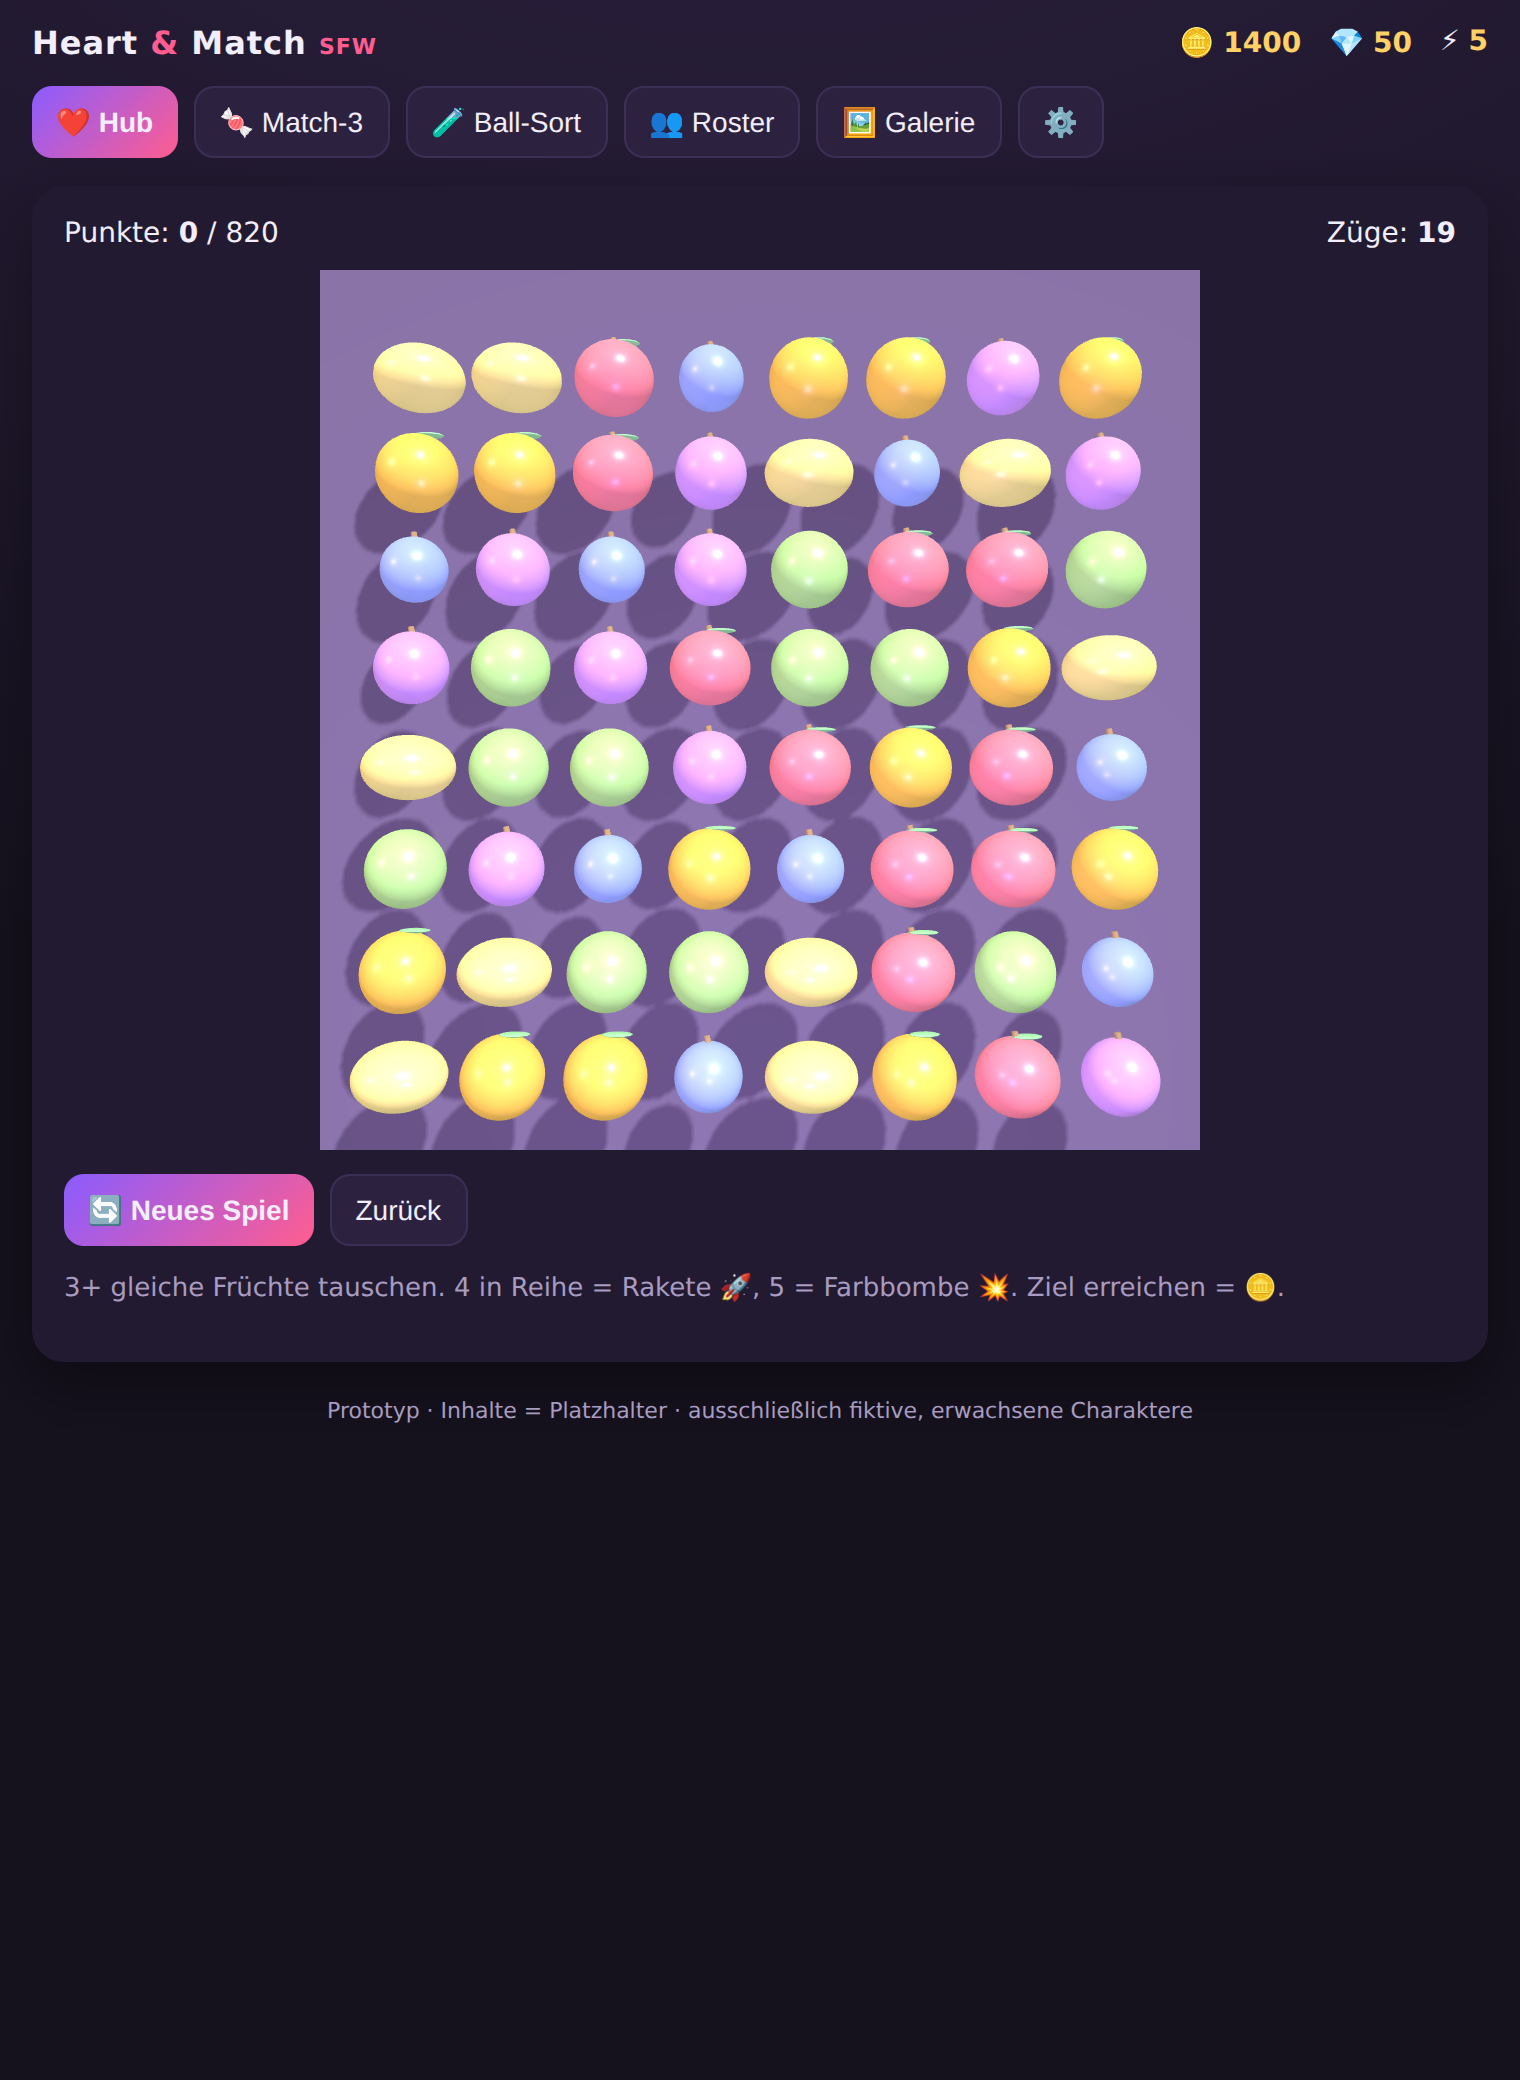
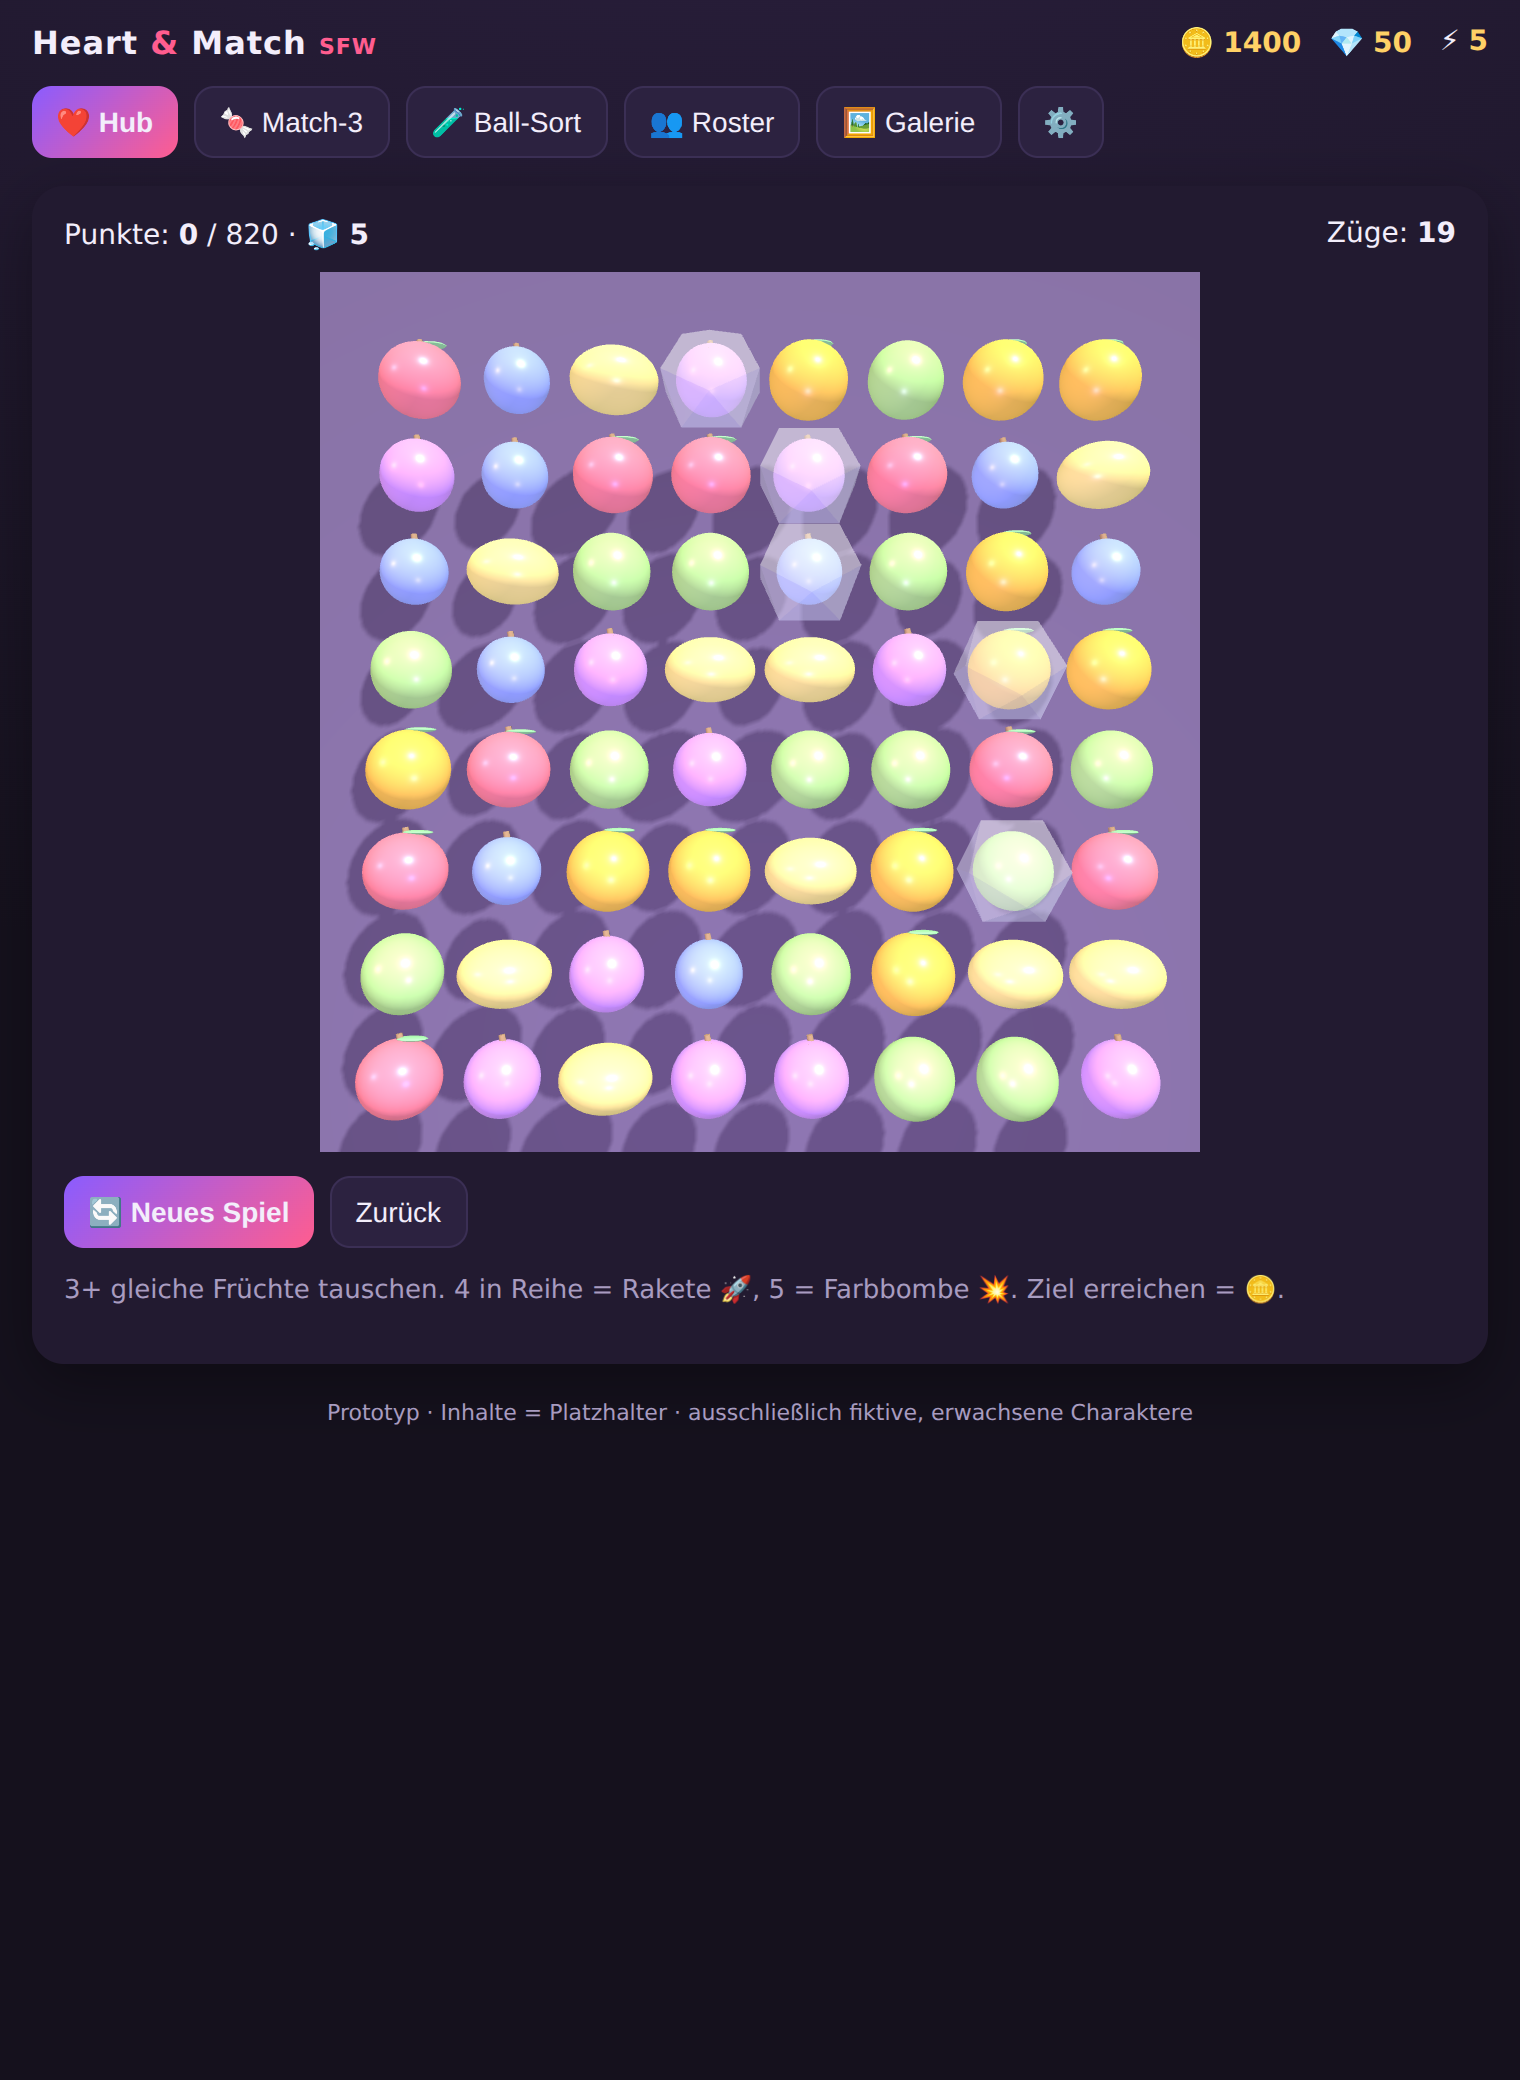
Phase 2 P0/P1: juice layer + first blocker (multi-layer ice) in 3D Match-3
Aus der Recherche umgesetzt:
- Juice: Partikel-Burst beim Aufloesen, Screenshake skaliert mit Combo/Spezial,
  Hit-Stop beim Spezialstein-Zuenden, Combo-Tonleiter (steigende Pitch)
- Hindernis 'Eis' (mehrschichtig): vereiste Fruechte nicht matchbar/bewegbar,
  tauen Schicht fuer Schicht durch benachbarte Matches; Sieg erfordert Ziel + 0 Eis
- HUD-Eiszaehler, Eis skaliert mit Level; runs() eis-bewusst

diff --git a/web-prototype/games3d.js b/web-prototype/games3d.js
@@ -43,6 +43,7 @@ const lerp = (a, b, t) => a + (b - a) * t;
 const M3 = {
   W: 8, H: 8, C: 6, cs: 1.18, grid: [], sel: null, score: 0, moves: 20, target: 800,
   busy: false, scene: null, cam: null, renderer: null, raycaster: null, mount: null,
+  particles: [], shake: 0, camBase: new THREE.Vector3(0, -0.8, 12.2), iceLeft: 0,
 };
 // Früchte: Farbe + Form + Deko
 const FRUIT = [
@@ -118,19 +119,48 @@ function startMatch3() {
       M3.grid[y][x] = newCell(c, x, y, true);
     } }
 
+  // Hindernis: Eis-Blocker säen (skaliert mit Level). Mehrschichtig -> mehrere Matches nötig.
+  M3.particles = []; M3.shake = 0; M3.iceLeft = 0;
+  const iceCount = Math.min(14, 3 + lvl * 2);
+  const spots = new Set();
+  for (let i = 0; i < iceCount; i++) {
+    const x = (Math.random() * M3.W) | 0, y = (Math.random() * M3.H) | 0, k = x + "," + y;
+    if (spots.has(k)) continue; spots.add(k);
+    const layers = 1 + ((Math.random() * Math.min(3, 1 + Math.floor(lvl / 2))) | 0);
+    setIce(M3.grid[y][x], layers); M3.iceLeft++;
+  }
+
   M3.renderer.domElement.style.cursor = "pointer";
   M3.renderer.domElement.onpointerdown = onM3Pointer;
   ticks.push(tickM3); startLoop();
   updateM3Hud();
 }
 
-function newCell(type, x, y, dropFromTop) {
+function newCell(type, x, y, dropFromTop, ice) {
   const mesh = makeFruit(type);
   const p = worldPos(x, y);
   mesh.position.set(p.x, dropFromTop ? p.y + 6 : p.y, 0);
   mesh.userData.tx = p.x; mesh.userData.ty = p.y;
   M3.scene.add(mesh);
-  return { c: type, s: null, mesh };
+  const cell = { c: type, s: null, mesh, ice: 0 };
+  if (ice) setIce(cell, ice);
+  return cell;
+}
+
+// Eis-Blocker: durchscheinende Hülle um die Frucht; Schichten 1–3 (durch benachbarte Matches auftauen)
+function setIce(cell, layers) {
+  cell.ice = layers;
+  const g = cell.mesh;
+  if (g.userData.iceMesh) { g.remove(g.userData.iceMesh); g.userData.iceMesh = null; }
+  if (layers > 0) {
+    const shell = new T.Mesh(
+      new T.IcosahedronGeometry(0.72, 0),
+      new T.MeshPhysicalMaterial({ color: 0xcde7ff, transparent: true, opacity: 0.32 + layers * 0.16,
+        roughness: 0.15, metalness: 0, clearcoat: 1, flatShading: true })
+    );
+    g.add(shell); g.userData.iceMesh = shell;
+    g.userData.frozen = true;
+  } else { g.userData.frozen = false; }
 }
 
 function tickM3() {
@@ -141,11 +171,35 @@ function tickM3() {
       o.scale.x = lerp(o.scale.x, u.baseScale * u.ts, 0.25);
       o.scale.y = o.scale.x; o.scale.z = o.scale.x;
       if (u.tx !== undefined) { o.position.x = lerp(o.position.x, u.tx, 0.28); o.position.y = lerp(o.position.y, u.ty, 0.28); }
-      o.rotation.y += u.spin;
-      if (u.ring) o.userData.ring.rotation.x += 0.05;
+      if (!u.frozen) o.rotation.y += u.spin;
+      if (u.ring) u.ring.rotation.x += 0.05;
     }
   });
+  // Partikel (Burst beim Auflösen)
+  for (let i = M3.particles.length - 1; i >= 0; i--) {
+    const p = M3.particles[i]; p.life -= 0.016;
+    if (p.life <= 0) { M3.scene.remove(p.mesh); M3.particles.splice(i, 1); continue; }
+    p.vy -= 0.018; p.mesh.position.x += p.vx; p.mesh.position.y += p.vy; p.mesh.position.z += p.vz;
+    const s = Math.max(0.01, p.life * 2.2); p.mesh.scale.setScalar(s);
+  }
+  // Screenshake (skaliert mit Combo/Spezial) — klingt schnell ab
+  if (M3.shake > 0.001) {
+    M3.cam.position.set(M3.camBase.x + (Math.random() - 0.5) * M3.shake,
+                        M3.camBase.y + (Math.random() - 0.5) * M3.shake, M3.camBase.z);
+    M3.shake *= 0.86;
+  } else { M3.cam.position.copy(M3.camBase); }
   M3.renderer.render(M3.scene, M3.cam);
+}
+
+function burst(x, y, colorHex, n) {
+  for (let i = 0; i < (n || 5); i++) {
+    const m = new T.Mesh(new T.SphereGeometry(0.13, 8, 6),
+      new T.MeshBasicMaterial({ color: colorHex }));
+    const p = worldPos(x, y); m.position.set(p.x, p.y, 0.3);
+    M3.scene.add(m);
+    M3.particles.push({ mesh: m, vx: (Math.random() - 0.5) * 0.32, vy: Math.random() * 0.3 + 0.05,
+      vz: Math.random() * 0.2, life: 0.5 + Math.random() * 0.3 });
+  }
 }
 
 function onM3Pointer(e) {
@@ -158,6 +212,7 @@ function onM3Pointer(e) {
   for (const h of hits) { let o = h.object; while (o && !o.userData?.body) o = o.parent; if (o) { grp = o; break; } }
   if (!grp) return;
   const pos = findCell(grp); if (!pos) return;
+  if (M3.grid[pos.y][pos.x].ice > 0) { beep(180, .1, "square"); toast("🧊 Erst das Eis schmelzen — Match direkt daneben!"); return; }
   if (!M3.sel) { M3.sel = pos; highlight(grp, true); beep(420, .05); return; }
   const a = M3.sel, b = pos; const aMesh = M3.grid[a.y][a.x].mesh; highlight(aMesh, false); M3.sel = null;
   if (Math.abs(a.x - b.x) + Math.abs(a.y - b.y) !== 1) { if (a.x !== b.x || a.y !== b.y) { M3.sel = b; highlight(grp, true); } return; }
@@ -181,7 +236,8 @@ async function doSwap(a, b) {
   else { swapCells(a, b); beep(200, .08, "square"); await wait(160); }
   updateM3Hud();
   M3.busy = false;
-  if (M3.score >= M3.target) endM3(true); else if (M3.moves <= 0) endM3(false);
+  if (M3.score >= M3.target && M3.iceLeft <= 0) endM3(true);
+  else if (M3.moves <= 0) endM3(false);
 }
 function swapCells(a, b) {
   const ca = M3.grid[a.y][a.x], cb = M3.grid[b.y][b.x];
@@ -190,19 +246,39 @@ function swapCells(a, b) {
 }
 function setTarget(cell, x, y) { const p = worldPos(x, y); cell.mesh.userData.tx = p.x; cell.mesh.userData.ty = p.y; }
 
+// Farbe einer Zelle fürs Matching; vereiste (frozen) Zellen sind nicht matchbar (-1).
+function cAt(x, y) { const cell = M3.grid[y][x]; return (!cell || cell.c == null || cell.ice > 0) ? -1 : cell.c; }
 function runs() {
   const out = [];
   for (let y = 0; y < M3.H; y++) { let x = 0; while (x < M3.W) {
-    const c = M3.grid[y][x]?.c; if (c == null || c < 0) { x++; continue; }
-    let s = x; while (x < M3.W && M3.grid[y][x]?.c === c) x++;
+    const c = cAt(x, y); if (c < 0) { x++; continue; }
+    let s = x; while (x < M3.W && cAt(x, y) === c) x++;
     if (x - s >= 3) { const r = { cells: [], h: true, color: c }; for (let i = s; i < x; i++) r.cells.push({ x: i, y }); out.push(r); }
   }}
   for (let x = 0; x < M3.W; x++) { let y = 0; while (y < M3.H) {
-    const c = M3.grid[y][x]?.c; if (c == null || c < 0) { y++; continue; }
-    let s = y; while (y < M3.H && M3.grid[y][x]?.c === c) y++;
+    const c = cAt(x, y); if (c < 0) { y++; continue; }
+    let s = y; while (y < M3.H && cAt(x, y) === c) y++;
     if (y - s >= 3) { const r = { cells: [], h: false, color: c }; for (let i = s; i < y; i++) r.cells.push({ x, y: i }); out.push(r); }
   }}
   return out;
+}
+// Eis benachbart zu geräumten Zellen um eine Schicht auftauen.
+function thawAround(clearedSet) {
+  const seen = new Set();
+  clearedSet.forEach(k => {
+    const [x, y] = k.split(",").map(Number);
+    [[1,0],[-1,0],[0,1],[0,-1]].forEach(([dx, dy]) => {
+      const nx = x + dx, ny = y + dy, nk = nx + "," + ny;
+      if (nx < 0 || nx >= M3.W || ny < 0 || ny >= M3.H || seen.has(nk)) return;
+      const cell = M3.grid[ny][nx];
+      if (cell && cell.ice > 0) {
+        seen.add(nk);
+        setIce(cell, cell.ice - 1);
+        burst(nx, ny, 0xcde7ff, 4); beep(520, .05, "triangle");
+        if (cell.ice === 0) { M3.iceLeft--; beep(760, .08); }
+      }
+    });
+  });
 }
 function effect(x, y, kind, t) {
   const out = [];
@@ -227,11 +303,15 @@ async function resolveBoard(b) {
     for (const r of rs) for (const p of r.cells) { const k = p.x + "," + p.y; if (!cleared.has(k)) { cleared.add(k); const cell = M3.grid[p.y][p.x]; if (cell && cell.s) queue.push({ x: p.x, y: p.y, s: cell.s, t: cell.c }); } }
     while (queue.length) { const q = queue.shift(); for (const e of effect(q.x, q.y, q.s, q.t)) { const k = e.x + "," + e.y; if (!cleared.has(k)) { cleared.add(k); const cell = M3.grid[e.y][e.x]; if (cell && cell.s) queue.push({ x: e.x, y: e.y, s: cell.s, t: cell.c }); } } }
 
+    // benachbartes Eis auftauen (eine Schicht pro Auflöse-Schritt)
+    thawAround(cleared);
+
     let n = 0;
     cleared.forEach(k => {
       const [x, y] = k.split(",").map(Number);
       if (spawnKeys.has(k)) return;
       const cell = M3.grid[y][x]; if (!cell) return;
+      burst(x, y, FRUIT[cell.c] ? FRUIT[cell.c].color : 0xffffff, 5);
       popOut(cell.mesh); M3.grid[y][x] = null; n++;
     });
     spawns.forEach(s => {
@@ -241,9 +321,13 @@ async function resolveBoard(b) {
       M3.grid[s.p.y][s.p.x] = { c: s.color, s: s.kind, mesh: sp };
     });
     M3.score += Math.round(n * 12 * (1 + 0.25 * (combo - 1)));
+
+    // Juice: "bigger action = bigger feedback" — Screenshake + Hit-Stop bei Spezial/Combo
+    if (spawns.length) { M3.shake = 0.55; beep(180, .18, "sawtooth"); }
+    else if (combo >= 3) { M3.shake = Math.max(M3.shake, 0.28); }
     if (combo > 1) beep(700 + combo * 70, .06);
     updateM3Hud();
-    await wait(200);
+    await wait(spawns.length ? 320 : 200); // Hit-Stop: kurze Pause beim Spezial-Zünden
     gravity();
     await wait(220);
     rs = runs();
@@ -265,7 +349,7 @@ function gravity() {
     for (; y >= 0; y--) M3.grid[y][x] = newCell((Math.random() * M3.C) | 0, x, y, true);
   }
 }
-function updateM3Hud() { $("m3score").textContent = M3.score; $("m3moves").textContent = M3.moves; $("m3target").textContent = M3.target; }
+function updateM3Hud() { $("m3score").textContent = M3.score; $("m3moves").textContent = M3.moves; $("m3target").textContent = M3.target; $("m3ice").textContent = M3.iceLeft; }
 function endM3(won) {
   M3.busy = true;
   if (won) {

diff --git a/web-prototype/index.html b/web-prototype/index.html
@@ -179,10 +179,10 @@
   </section>
 
   <section id="tab-m3" class="card hidden">
-    <div class="hud"><div>Punkte: <b id="m3score">0</b> / <span id="m3target">800</span></div><div>Züge: <b id="m3moves">20</b></div></div>
+    <div class="hud"><div>Punkte: <b id="m3score">0</b> / <span id="m3target">800</span> · 🧊 <b id="m3ice">0</b></div><div>Züge: <b id="m3moves">20</b></div></div>
     <div id="m3mount" style="display:flex;justify-content:center;"></div>
     <div class="btns"><button class="primary" onclick="startMatch3()">🔄 Neues Spiel</button><button onclick="showTab('hub')">Zurück</button></div>
-    <p class="muted">3+ gleiche Früchte tauschen. 4 in Reihe = Rakete 🚀, 5 = Farbbombe 💥. Ziel erreichen = 🪙.</p>
+    <p class="muted">3+ gleiche Früchte tauschen. 4 in Reihe = Rakete 🚀, 5 = Farbbombe 💥. 🧊 Eis schmilzt durch Matches direkt daneben (mehrschichtig). Ziel + alles Eis räumen = 🪙.</p>
   </section>
 
   <section id="tab-bs" class="card hidden">

diff --git a/web-prototype/README.md b/web-prototype/README.md
@@ -21,7 +21,10 @@ python3 -m http.server 8080
 - **Start-/Age-Gate**: Auswahl SFW / 18+ (Demo — beide nur Platzhalter), Altersbestätigung für 18+.
 - **Hub**: aktiver Charakter mit Sympathie/Vertrauen/Stimmung-Balken + Tier, **Dialog-Bubble je
   Persönlichkeit/Tier**, Geschenke mit **Geschmacks-Präferenz** (💗 mag / 💤 mag nicht), Date-Button.
-- **Match-3**: 8×8, Tauschen, Matches/Kaskaden mit Combo-Sound, 4er→Rakete, 5er→Farbbombe, Ziel → 🪙.
+- **Match-3 (3D-Früchte)**: 8×8, Tauschen, Kaskaden, 4er→Rakete, 5er→Farbbombe, Ziel → 🪙.
+  **Juice:** Partikel-Burst beim Auflösen, Screenshake + Hit-Stop beim Spezialstein-Zünden, Combo-Tonleiter.
+  **Hindernis 🧊 Eis** (mehrschichtig): vereiste Früchte sind nicht bewegbar und schmelzen Schicht für
+  Schicht durch Matches direkt daneben — Level gewonnen erst, wenn Ziel erreicht **und** alles Eis geräumt ist.
 - **Ball-Sort**: Röhren sortieren, Undo, Lösungserkennung → 🪙.
 - **Roster**: alle Charaktere mit Persönlichkeit/Tier, freigeschaltet/gesperrt, Wechsel per Tap.
 - **Galerie**: Belohnungs-Tiers pro Charakter mit „NEU"-Badges.
